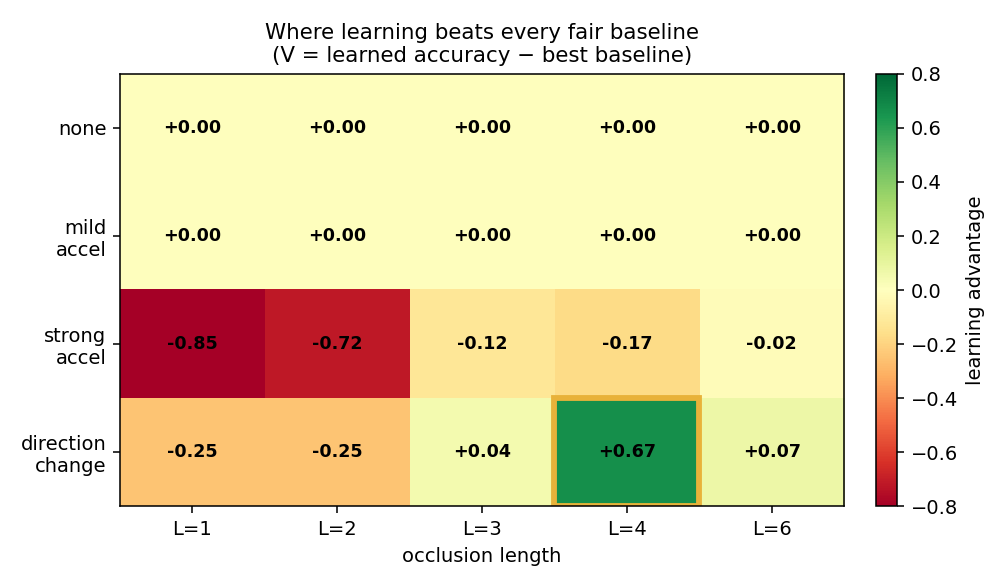
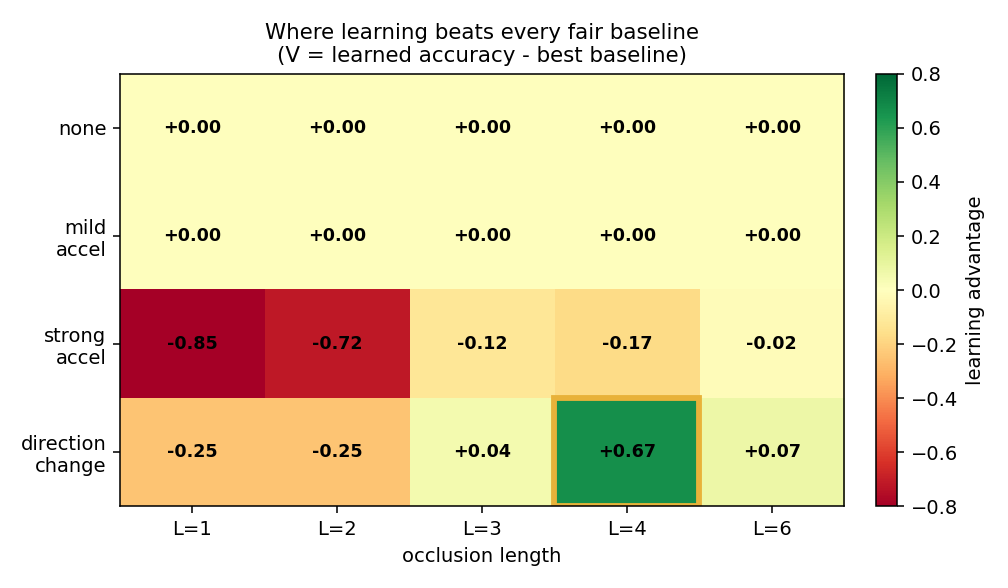
lab: MOCPS, kuratorowany pakiet badawczy do pobrania (.zip) na karcie projektu
Write-up EN + 2 figury + wyczyszczone skrypty analizy (EN, bez martwego kodu) + README.
Zastapiono odniesienie do prywatnego repo blokiem pobierania (3 jez.), przycisk CTA.

Changed region(s): [[0.2768, 0.0612, 0.7073, 0.1224]]

diff --git a/src/styles/global.css b/src/styles/global.css
@@ -195,6 +195,8 @@ footer p.tag{color:var(--muted); font-size:14px; max-width:34ch}
 .prose p:has(> img){margin-top:1.8em; margin-bottom:.5em}
 .prose p:has(> img) img{display:block; max-width:100%; height:auto; margin:0 auto; padding:10px; background:#fff; border:1px solid var(--line); border-radius:12px; box-shadow:0 1px 0 rgba(0,0,0,.04)}
 .prose p:has(> img) + p{margin-top:.2em; text-align:center; font-size:14px; line-height:1.55; color:var(--muted)}
+.prose a[href$=".zip"]{display:inline-block; text-decoration:none; background:var(--accent); color:#1a1205; font-weight:600; padding:11px 18px; border-radius:10px; border:1px solid var(--accent); transition:background .15s ease, transform .15s ease}
+.prose a[href$=".zip"]:hover{background:var(--accent-soft); transform:translateY(-1px)}
 .prose code{font-family:'JetBrains Mono Variable',monospace; font-size:.9em; background:var(--surface-2); border:1px solid var(--line); border-radius:5px; padding:2px 6px}
 .prose pre{background:var(--surface); border:1px solid var(--line); border-radius:12px; padding:18px; overflow-x:auto; font-size:14px}
 .prose pre code{background:none; border:none; padding:0}

diff --git a/src/content/projects/de/mocps.md b/src/content/projects/de/mocps.md
@@ -450,4 +450,10 @@ Nach Trennung aggregiert zeigt sich eine Schwelle. Oberhalb von etwa 6 px hält 
 
 *Die zwei Mechanismen sind geometrisch und trennbar. Links vom roten Band passieren die Objekte zu nah, um sie zu unterscheiden (nicht reduzierbar). Der einzige Punkt, an dem ein bequemer Abstand die Physik dennoch schlägt, Richtungswechsel bei L=4, ist genau dort, wo Lernen gewinnt.*
 
-Der vollständige technische Bericht liegt im Projekt-Repo (`RESULT_LEARNED_OBJECT_PERMANENCE.md`).
+## Downloads
+
+Das vollständige Forschungsartefakt, der englische Bericht, beide Abbildungen, der bereinigte Analysecode und eine README, ist als Download gepackt:
+
+[Forschungspaket herunterladen (.zip, 148 KB)](/mocps/mocps-research-bundle.zip)
+
+Das Paket ist zum Lesen und zum Zeigen der Methode gedacht. Ein Ende-zu-Ende-Lauf braucht die vollständige Umgebung (das `jepa_petri`-Paket), die ich separat herausziehe, sobald das Projekt als Repository veröffentlicht werden kann.

diff --git a/src/content/projects/en/mocps.md b/src/content/projects/en/mocps.md
@@ -449,4 +449,10 @@ Aggregated by separation, one threshold appears. Above about 6 px the learned st
 
 *The two mechanisms are geometric and separable. Left of the red band the objects pass too close to disambiguate (irreducible). The one point where a comfortable margin still defeats physics, direction change at L=4, is exactly where learning wins.*
 
-The full technical write-up is in the project repo (`RESULT_LEARNED_OBJECT_PERMANENCE.md`).
+## Downloads
+
+The full research artifact, the English write-up, both figures, the cleaned analysis code and a README, is packaged for download:
+
+[Download the research bundle (.zip, 148 KB)](/mocps/mocps-research-bundle.zip)
+
+The bundle is meant to be read and to show the method. Running it end-to-end needs the full environment (the `jepa_petri` package), which I will extract separately once the project is ready to ship as a repository.

diff --git a/src/content/projects/pl/mocps.md b/src/content/projects/pl/mocps.md
@@ -450,4 +450,10 @@ Zagregowane po separacji widać jeden próg. Powyżej około 6 px nauczony stan 
 
 *Dwa mechanizmy są geometryczne i rozłączne. Na lewo od czerwonego pasa obiekty mijają się zbyt blisko, by je rozróżnić (nieusuwalne). Jedyny punkt, gdzie spokojny margines i tak pokonuje fizykę, zmiana kierunku przy L=4, to dokładnie miejsce, gdzie uczenie wygrywa.*
 
-Pełny techniczny write-up jest w repo projektu (`RESULT_LEARNED_OBJECT_PERMANENCE.md`).
+## Materiały do pobrania
+
+Pełny artefakt badawczy, angielski write-up, obie figury, wyczyszczony kod analizy i README, jest spakowany do pobrania:
+
+[Pobierz pakiet badawczy (.zip, 148 KB)](/mocps/mocps-research-bundle.zip)
+
+Pakiet jest do czytania i wglądu w metodę. Uruchomienie end-to-end wymaga pełnego środowiska (pakiet `jepa_petri`), które wydzielę osobno, gdy projekt będzie gotowy do publikacji jako repozytorium.